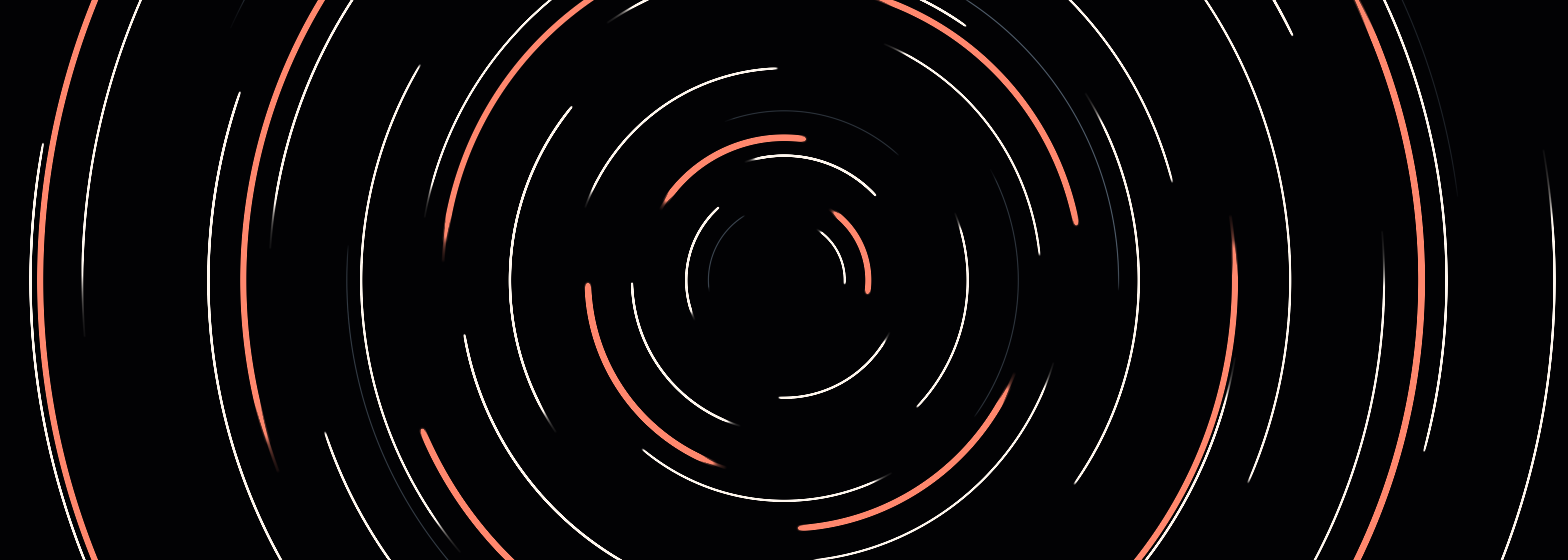
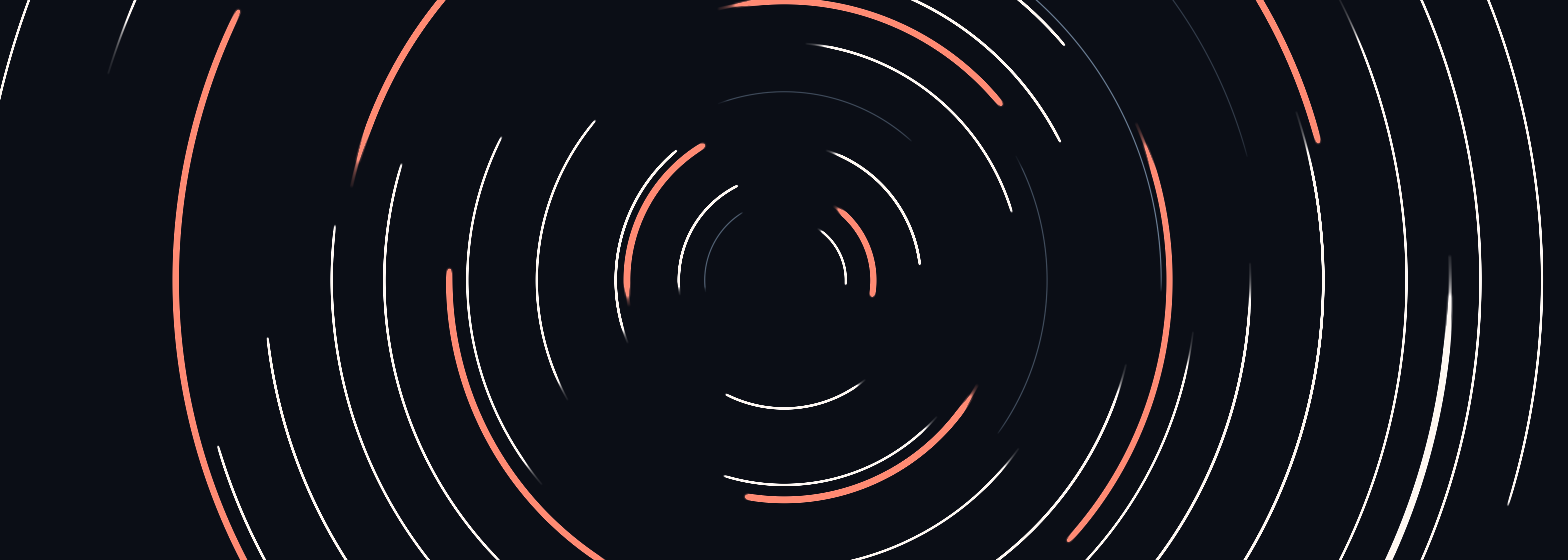
tune(sky): thin the star ring and lift the three near-black layers
Density: N_BIG/N_SMALL 96/50 -> 76/40, N_DEEP_K 0.65 -> 0.7 (76 light / 53 dark, 40/28 narrow). Darkness was three stacked layers, each measured before moving: page colour #020204 -> #0b0e16 (with ink-1/2, theme-color and the bake's new \ veil constant), dark hero grading 0.32 -> 0.5 (meanL 37.3 -> 59.5, near-black 58.2% -> 25.5%), deep drawer veil 0.62 -> 0.42 (near-black 96.8% -> 39.6%). Developing gains move in opposite directions because the causes differ: DEV_DEEP 1.0 -> 1.6 (not enough light), DEV_PAPER 0.42 -> 0.18 (too much ink); DEP untouched. The bake script now also emits the four phone -sm resamples, which were hand-baked before and silently left behind on every re-bake. Contrast still passes every rule. Art recomputed from the same constants; docs, README pair and the dark figures' grounds synced.

diff --git a/src/styles/site.css b/src/styles/site.css
@@ -254,9 +254,15 @@ html:root {
 /* 选择器写成 :not([data-theme='out']) 而不是 [data-theme='well']，所以属性没写上时
    这里就是渲染结果。首开默认浅色由 index.html 决定，与此无关。 */
 html:root:not([data-theme='out']) {
-  --ink-0: #020204;
-  --ink-1: #0a0a10;
-  --ink-2: #15151d;
+  /* 2026-11-15（作者「整体比较偏黑」）：#020204 / #0a0a10 / #15151d → 下面三档。
+     旧值近纯黑（亮度 2.2 级），叠上压暗照片后整页 94% 的像素低于 40 级，读作一块黑板。
+     现在抬到深蓝夜色：页底 ~13 级、面板 ~22 级、抬升面 ~33 级，仍是明确的夜，
+     但天空与山体有了层次。色相留在冷蓝一侧（B > G > R），与 --cold 同族。
+     烘图脚本的天空纱必须跟着落到同一个 --ink-0，否则首屏横带顶边会出现一道横杠
+     （build_plate_bg.ps1 的 veilTopColor，两处一起改）。 */
+  --ink-0: #0b0e16;
+  --ink-1: #141821;
+  --ink-2: #202634;
 
   --text-0: #f4f1ea;
   --text-1: #8f8c96;
@@ -282,13 +288,13 @@ html:root:not([data-theme='out']) {
      否则直接拿 --ink-2 当阴影会在浅底上晕出一圈浅淡的光斑 */
   --shadow: rgba(0, 0, 0, 0.62);
   --plate-img: url('/plates/plate-bg-deep.jpg'); /* 抽屉底：plate1 烘出的压暗底，单张常驻（2026-11-07 起不再三档指向同一张装轮播） */
-  --plate-img-sm: url('/plates/plate-bg-deep-sm.jpg'); /* 手机档：同图 1280px 重采样（运行时还有 12px 模糊），0.10MB → 0.03MB */
+  --plate-img-sm: url('/plates/plate-bg-deep-sm.jpg'); /* 手机档：同图 1280px 重采样（运行时还有 12px 模糊），0.12MB → 0.04MB */
   /* 次级页未吸顶顶栏的字色（压在底片上）：deep 顶带近黑，字取 --text-0、
      hover / 选中 / 下划线保留 --cold 那枚亮蓝（压得住）。消费方在 SiteHeader 的 .plate 规则。 */
   --plate-hdr: var(--text-0);
   --plate-fg: var(--cold);
   --hero-img: url('/plates/plate-hero-deep.jpg'); /* 首屏的地景底：与亮色同一座山（同一取景的压暗版），星轨以 lighter 叠在它上面 */
-  --hero-img-sm: url('/plates/plate-hero-deep-sm.jpg'); /* 手机档：同取景 1800px 重采样，0.62MB → 0.05MB */
+  --hero-img-sm: url('/plates/plate-hero-deep-sm.jpg'); /* 手机档：同取景 1800px 重采样，0.90MB → 0.06MB */
   /* 首屏第一帧的替身：36px 宽的模糊底（0.46KB data URI）随样式表一起到，真图不透明、load 完自然盖住 */
[1 lines of base64/hex data omitted]
 
@@ -364,8 +370,10 @@ html:root[data-theme='out'] {
 }
 
 /* ---------- 3a. 手机档地景 ----------
-   窄屏把首屏照片换成同取景的 1800px 重采样版（亮 1.45MB → 0.09MB，深 0.62MB → 0.05MB），
-   抽屉底片换 1280px 版（两张 1.5MB → 0.49MB；运行时还糊 12px，看不出来）。
+   窄屏把首屏照片换成同取景的 1800px 重采样版（亮 1.45MB → 0.09MB，深 0.90MB → 0.06MB），
+   抽屉底片换 1280px 版（浅 0.63MB → 0.21MB、深 0.12MB → 0.04MB；运行时还糊 12px，看不出来）。
+   四张手机档由 npm run bg:build 末尾的 Resample 从桌面成品降采样生成（2026-11-15 起；
+   此前是手工烘的，重烘桌面时会静默漏掉它们，窄屏于是一直用着旧调色）。
    断点必须与 index.html 首帧 preload 里那条 matchMedia 是同一个数：预加载错版本等于白下
    一张，首屏反而更慢；tests/hero-preload.test.mjs 从两边解析出来对拍。
    主题块的选择器是 (0,2,1)，所以这里也写成主题选择器、放在两套主题块之后，靠层叠扳 --hero-img。

diff --git a/src/components/StarTrails.vue b/src/components/StarTrails.vue
@@ -70,13 +70,19 @@ const LENS_R = 180 // 指针时间膨胀半径 px
 // 五次：176/90 → 124/64。配额已把根数让给中亮两档，总数再收一档，
 // 于是"能看清的弧"数量基本不变，而背景灰丝少了六成。
 // 七次：110/58 → 96/50。中+亮 = 84 根（与上一版逐根相等），暗档 26 → 12 根。
-const N_BIG = 96
-const N_SMALL = 50
+// 2026-11-15 十次（作者「星环密度还是有点高」）：96/50 → 76/40，再收两成。
+// 这一轮不再靠砍暗档去减密度（暗档只剩 16%，再砍就没有气氛层了），而是整组等比收：
+// 浅色 76 根（亮 18 / 中 46 / 暗 12）、深色 53 根（亮 13 / 中 32 / 暗 8）。
+// 环与环之间的天空随之变宽，配合下面几档提亮，画面读作"疏朗的几笔"而不是密纹。
+const N_BIG = 76
+const N_SMALL = 40
 // 星数必须**分主题**：同一套 α 在两个主题上的可见面积差着一个数量级。浅色是墨压浅底
 // （底亮度 245），α<0.05 的抗锯齿羽化按 Weber 律根本看不见；深色是冷白加在近黑底上
 // （实测底亮度 2.2 级），一条 α=0.037 的羽化边就是 7 级 = 320% 对比 → 220 根的羽化叠起来
 // 读成"一片脏灰的轨迹"。量法见 docs/design.md §9 第 8 条。
-const N_DEEP_K = 0.65 // 深色主题的星数倍率（浅色=1）
+// 2026-11-15：0.65 → 0.7。深色底同时提亮（见 DEV_DEEP 与烘图的 DEEP_HERO_K），
+// 近黑底变亮之后羽化边的对比不再那么刺眼，可以比原先多留一点星，减星才不至于读成空天。
+const N_DEEP_K = 0.7 // 深色主题的星数倍率（浅色=1）
 // 线宽。旧值 `0.6 + z·1.2` 的中位数只有 0.94 CSS px，而他那块屏是 1× 缩放——**上屏的采样网格
 // 就是 1 CSS px = 1 设备像素**，一根不到一格的线必然沿程明暗跳：按面积积分量过，脊的谷/峰只有
 // 0.33（同一条线自己亮 30 级、暗 10 级交替）。底片内部超采样治不了它（p=1.645 时 0.34、p=2 时
@@ -172,8 +178,12 @@ const CORE_HALO = 5.2 // 深色辉光半径 = 核半径 × 此值
 // 2026-11-14 三次：1.9/0.85 → 0.55/0.22。上一轮补的这道提亮把"不明显"治过头了，
 // 现在只留一点点，让底片本来的浓淡说话。配图脚本读同一对常数，两边不再各调一套。
 // 四次：0.55/0.22 → 1.0/0.42，中档（二次 1.9/0.85，三次 0.55/0.22）。
-const DEV_DEEP = 1.0 // 深色：额外叠绘次数（≈ ×2.0）
-const DEV_PAPER = 0.42 // 浅色：额外压墨的 alpha（≈ ×1.42）
+// 2026-11-15 五次（作者「整体比较偏黑」）：深色 1.0 → 1.6（≈ ×2.6），浅色 0.42 → 0.18（≈ ×1.18）。
+// 两套主题往相反方向走，因为"偏黑"在两边的成因不同：深色是光不够（加色叠绘再补一档），
+// 浅色是墨太重（压墨的零头收掉大半，让干版本来的纸色透出来）。减星之后单笔更清楚，
+// 深色多叠一遍不会糊成密纹；浅色减墨也不会淡到读不出——底片浓度 DEP 未动。
+const DEV_DEEP = 1.6 // 深色：额外叠绘次数（≈ ×2.6）
+const DEV_PAPER = 0.18 // 浅色：额外压墨的 alpha（≈ ×1.18）
 /* 换主题的交叉显影：旧底片先拍一张快照，在新底片重新长出来的这几百毫秒里淡出。
  * 原先 resetPlate() 一清，整夜的曝光当场归零、要盯着空天好几秒才重新长出弧来。 */
 const GHOST_FADE = 620 // ms

diff --git a/src/components/HorizonHero.vue b/src/components/HorizonHero.vue
@@ -145,7 +145,9 @@ onUnmounted(() => {
    同一段色差，"两端不等"这件事不变；现在两端实测差 1/765 通道和，边界那一档降到 0.021。
    横带高度在这里，画面取哪一段是 bake 里的 700/1120/2560。
    暗色是同一取景的压暗版（plate-hero-deep.jpg，build_plate_bg.ps1 用同一个 $full 烘出），
-   同一条天空纱改成压向 #020204，所以顶端也是 #020204、同样没有缝；两套共用一条山脊折线。 */
+   同一条天空纱改成压向 #0b0e16（2026-11-15 随深色页底一起提亮，原 #020204），所以顶端也是
+   #0b0e16、同样没有缝；两套共用一条山脊折线。纱色在 build_plate_bg.ps1 的 $INK_DEEP，
+   与 site.css 深色块的 --ink-0 必须同值，改一处就要改两处并重烘。 */
 .hero-lqip {
   position: absolute;
   bottom: 0;

diff --git a/index.html b/index.html
@@ -5,7 +5,7 @@
     <link rel="icon" type="image/svg+xml" href="/favicon.svg?v=2" />
     <meta name="viewport" content="width=device-width, initial-scale=1.0" />
     <meta name="description" content="Escap1ng 的个人博客：技术、设计、生活，想到哪写到哪。首页是一段随滚动加速的星轨长曝光，文章按时间排在这里。" />
-    <meta name="theme-color" content="#020204" media="(prefers-color-scheme: dark)" />
+    <meta name="theme-color" content="#0b0e16" media="(prefers-color-scheme: dark)" />
     <meta name="theme-color" content="#f2f5f9" media="(prefers-color-scheme: light)" />
 
     <!-- 域名写死在这里，且与 src/data/site.js 的 url 必须是同一个源头（tests/content-rolls.test.mjs

diff --git a/docs/design.md b/docs/design.md
@@ -120,10 +120,19 @@
 
 **四至九轮：密度与配色的来回校准（2026-11-14，作者逐轮目评）。** 三次减淡后作者评「过于稀疏」，四次取中档（N 176/90、DEP 0.104、曝光 64°、增益 1.0/0.42）；随后「细密的淡线太多」与「颜色优化」连评三轮，最终落在：
 
-- **淡线的根治靠结构不靠数量**：`LW_MIN=1.25` 给所有笔画兜最小线宽——亚像素笔画在 1× 屏上被采样成断续灰点，才是"细密淡线"的物理来源；暗档不再压细（×0.9），退让改由**颜色**承担。配额暗档一路 67% → 38% → 24% → **16%**，中档接管主体密度；总星数 **96/50**（深色 62），可见中亮弧数量保持不变，少的全是灰丝。
+- **淡线的根治靠结构不靠数量**：`LW_MIN=1.25` 给所有笔画兜最小线宽——亚像素笔画在 1× 屏上被采样成断续灰点，才是"细密淡线"的物理来源；暗档不再压细（×0.9），退让改由**颜色**承担。配额暗档一路 67% → 38% → 24% → **16%**，中档接管主体密度；总星数当时 **96/50**（深色 62，2026-11-15 十轮再收到 76/40，见下），可见中亮弧数量保持不变，少的全是灰丝。
 - **配色三档在色相上分开**：浅色 = 石板灰蓝（暗，ink 兑 34% cold）/ 石墨蓝（中，兑 50%）/ 朱砂（亮）；深色 = 冷蓝微光 / 暖白 / 琥珀。不再靠"同一种蓝的浓淡"。
 - **红蓝平衡（九次，「蓝色太多红色太少」）**：亮档配额 16% → **24%**、中档 72% → **60%**；亮星抽暖概率 `WARM_P` 0.3 → **0.65**（命名常数，复算脚本读它），红弧从点睛升为第二主角。
 - 复算脚本同步读取 `WARM_P` / `LW_MIN`，色板与线宽倍率逐行同款；配图与页面仍是单一来源。
+
+**十轮：减星 + 分层提亮（2026-11-15，作者「星环密度还是有点高，而且整体比较偏黑」）。** 两件事分开治，因为成因不同：密度是根数，偏黑是**三层底色叠出来的**，不是星轨本身。
+
+- **密度**：`N_BIG`/`N_SMALL` 96/50 → **76/40**（整组等比收两成，不再砍暗档——它只剩 16%，再砍就没有气氛层）。`N_DEEP_K` 0.65 → **0.7**：深色底提亮后羽化边的对比不再刺眼，可以比原先多留一点星。现值浅色 **76**（亮 18 / 中 46 / 暗 12）、深色 **53**（亮 13 / 中 32 / 暗 8），窄屏 40 / 28。
+- **偏黑的三层，逐层量过再动**（改前 → 改后，逐像素采样）：页底 `--ink-0` `#020204`（亮度 2.2 级）→ **`#0b0e16`**（~13 级），`--ink-1` `#0a0a10` → `#141821`、`--ink-2` `#15151d` → `#202634`，色相留在冷蓝一侧；深色首屏照片 `DEEP_HERO_K` 0.32 → **0.5**，meanL **37.3 → 59.5**、近黑像素 **58.2% → 25.5%**；深色抽屉底片压暗纱 0.62 → **0.42**，meanL **23.5 → 40.2**、近黑 **96.8% → 39.6%**。那道 0.62 的纱是"可读性靠底片"时代的遗留，如今正文一律坐在卡面与 `.en-head` 上（实测 ≥5.98:1），底片可以还它自己的调子。
+- **显示增益往相反方向走**：`DEV_DEEP` 1.0 → **1.6**（≈×2.6，深色是光不够）、`DEV_PAPER` 0.42 → **0.18**（≈×1.18，浅色是墨太重）。`DEP` 未动——底片浓度不变，只改显示端与底色。
+- **天空纱必须跟着页底走**：`build_plate_bg.ps1` 新增 `$INK_DEEP` 常量（11,14,22），深色首屏的 `veilTopColor` 与抽屉纱色都取它。此前两处各写一份字面量，改 `--ink-0` 而忘了重烘就会在横带顶边留一道横杠（§8「首页」那条明账）。`index.html` 的 `theme-color` 同步。
+- **手机档不再手工烘**：脚本末尾新增 `Resample`，从**桌面成品**降采样出四张 `-sm`（首屏 1800px / 抽屉 1280px）。此前它们是手工产物，`npm run bg:build` 会静默漏掉——本轮实测深色手机首屏仍是旧的 meanL 37.2 而桌面已 59.5，窄屏一直用着旧调色。现在同一次重烘必然覆盖两档。
+- **对比度仍全部达标**：提亮页底后深色正文 17.10:1、次文字 5.84:1、`--cold` 10.98:1、`--hot` 6.28:1，代码块两档 10.11 / 5.38；浅色一字未动。
 
 **弧长与闪烁（历史口径，已被上条取代）。** 旧式 `shear = 0.09+r^1.9·0.85` × 星等倍率（亮 1.5 / 中 1.15 / 暗 1）：中位 ≈18.7°、最长 ≈54°、亮星到 81°——长短差 8 倍以上，随机感靠"每根都不一样长"承载（2026-10-30 压长尾：旧 `0.07+r^1.55·1.0` 的中位 23.6°、最长 61°、亮星 92°，长弧在整屏上读成"拖出来的细丝"）。闪烁幅度随星等放大，`ta = 0.04+0.08·min(1,z)`（同日减半：整屏眨眼读成噪点）；另叠云幕慢包络（周期 40–126s、幅度 5–12% 缓变暗化，原 10–22%），与快闪烁、独立尾部渐隐（`FEAT`，每次 1–2 根、间隔 8–14s、4.2s 内暗到 0.45 再回来）构成三个时间尺度。
 
@@ -209,9 +218,9 @@
 
 | 令牌 | 语义 | 深色 | 浅色（`theme=out`，首开默认） |
 | --- | --- | --- | --- |
-| `--ink-0` | 页面底色 | `#020204` | `#f2f5f9` |
-| `--ink-1` | 卡片/代码/表头底 | `#0a0a10` | `#e7ecf3` |
-| `--ink-2` | 再亮一层内嵌底 | `#15151d` | `#d9e1eb` |
+| `--ink-0` | 页面底色 | `#0b0e16` | `#f2f5f9` |
+| `--ink-1` | 卡片/代码/表头底 | `#141821` | `#e7ecf3` |
+| `--ink-2` | 再亮一层内嵌底 | `#202634` | `#d9e1eb` |
 | `--text-0` | 主文字 | `#f4f1ea` | `#0e141d` |
 | `--text-1` | 次文字/眉标/读数 | `#8f8c96` | `#55606f` |
 | `--line` | 发丝线/边框 | `rgba(244,241,234,.13)` | `rgba(14,20,29,.15)` |
@@ -454,7 +463,7 @@ p.sr-only[aria-live] → 路由播报，内容取 route.meta.t
   顶部另有一条**最低让位**：`--hero-top-free = (--svh − 垫 − --lockup-h) / 2` 是居中模型算出的块顶；它小于 `--hero-header-clear: 96px` 时，把 `padding-top` 设为 `2 × (96 − 块顶)`，用居中模型的"顶部垫量只让块顶下移 T/2"关系把块顶精确压到 96px。96 = 未吸顶的顶栏 65px + 滚动 40px 时刊头因视差相对上移的 30px（`.hero-text` 的 `translateY(y·0.25)`），再往上 `.stuck` 的实底就接上了。视口够高时这项算出来是 0，版式与本条上面那组读数一字不动。
   视口 ≤430px 高时，块底会碰到右下角那枚下滑提示，提示直接隐藏——它只是"下面还有"的暗示，没地方时不硬挤。
   首屏右下角是那枚**下滑提示**（`.scroll-cue`，首屏组件内）：2026-10-30 由正中的 52px 圆钮改成右侧的 38×58 细描边胶囊，同日又改回**圆形**——46px 圆钮、1.5px 冷色描边、半透底托（山脊照片明暗不定，裸描边会被吃掉），里面一枚 22px 描边下箭头（`fill:none` + 圆头圆角，与顶栏那组 `.en-svg` 同一套画法）在圆内 3px 起伏、透明度 0.55↔1（2.2s），按钮本身不 bob——动的只是箭头，点击位置不晃。46 靠 `::after` 补到 58 的触控热区，≤720px 贴 16px 页边（`--space-2` / `--space-3`）。挪到右侧的原因是折线声波的峰就在正中，圆钮压在波峰上像一颗樱桃；减弱动效下箭头停成正中一道静态一撇。
-  **淡出不在 CSS 里，烘在素材里**：`build_plate_bg.ps1` 取原图 700~2560 行，在山脊（峰顶实测 1120 行，读自 25px 网格渲染）以上盖一层竖向天空纱，顶端正好落在 `--ink-0`、到峰顶收敛为 0，所以山一寸没被遮。实测边界差 1/765 通道和，淡出跨 220px，进入段每 20px 降 0.021 亮度。暗色 `--hero-img` 是**同一取景的压暗版**（`plate-hero-deep.jpg`）：同一个 `$full`、同一裁剪、同一条天空纱，只把纱色换成压向 `#020204`（调色为 `$HERO_DEEP = $HERO × K`，`K=0.32`，3×3 与 RGB 偏移**一起**缩，纯黑才落回 `#020204` 而不是偏移留下的 `#030810`；`DEEP_HERO_K` 可覆盖），保留 `$HERO` 的色相让山脊可读，实测素材第 0 行就是 `#020204`、边界台阶降到 ≈0.3 ΔL\*；两套主题因此共用 `ridge.js` 那一条折线。首屏视差随滚动以 0.25 倍速下沉并淡出。
+  **淡出不在 CSS 里，烘在素材里**：`build_plate_bg.ps1` 取原图 700~2560 行，在山脊（峰顶实测 1120 行，读自 25px 网格渲染）以上盖一层竖向天空纱，顶端正好落在 `--ink-0`、到峰顶收敛为 0，所以山一寸没被遮。实测边界差 1/765 通道和，淡出跨 220px，进入段每 20px 降 0.021 亮度。暗色 `--hero-img` 是**同一取景的压暗版**（`plate-hero-deep.jpg`）：同一个 `$full`、同一裁剪、同一条天空纱，只把纱色换成压向 `--ink-0`（脚本里的 `$INK_DEEP`，现 `#0b0e16`；调色为 `$HERO_DEEP = $HERO × K`，`K=0.5`，3×3 与 RGB 偏移**一起**缩，纯黑才落回页底而不是偏移留下的杂色；`DEEP_HERO_K` 可覆盖），保留 `$HERO` 的色相让山脊可读，实测素材第 0 行就是页底色、边界台阶 ≈0.3 ΔL\*；两套主题因此共用 `ridge.js` 那一条折线。**2026-11-15**：`K` 0.32 → 0.5、纱色 `#020204` → `#0b0e16`（作者「整体比较偏黑」，见 §3.1 十轮）——改前 meanL 37.3 / 近黑 58.2%，改后 59.5 / 25.5%。纱色与 `--ink-0` 必须同值，改一处就要改两处并重烘，否则横带顶边出现一道横杠。首屏视差随滚动以 0.25 倍速下沉并淡出。
 - **首页折线以下**：风景底片是挂在 `App.vue` 上的 `.sub-plate`（`position: fixed` 铺满视口）。素材由 `npm run bg:build` 从 `plates-src/` 的原图烘出来，原图不进仓库。**底片是清晰的**：糊不糊是运行时参数 `--plate-blur`（0–12px 滑杆，**初值 12 = 拉满**，见「设置卡」条），素材一律出清晰版，所以滑杆两端都有实义，0 那一档是真清晰。**2026-11-07 起收敛成单张常驻**：作者定「浅色底片 · 其三」为默认，原先三张轮各占 10s / 一圈 30s 的那套机制（`--plate-cycle`、`plate-slot` 关键帧、`animation-delay` 9/19s）整体退役。压暗渐变仍跟着图层走、只此一份（`transparent 52% → var(--ink-0) 100%`），图层向四周多撑 3 倍模糊半径免得 blur 把边缘淡出一圈白边——这两条账不变。三张的历史收档：paper1 / paper3 撤出轮播，paper3 源图挪 `photos-src/` 待用，paper1 源图留在 `plates-src/`（深色压暗底 plate-bg-deep 由它烘；当年三张顶带 p50 实测 0.231 / 0.032 / 0.014，单色必有其中一张不达标，是逐张采样的依据）。**2026-10-29 作者嫌上下两片白太大**：底部起点 18% → 52%、到 100% 才铺满——下半屏不再是一块死白，页脚那一条仍在 80% 以上的 `--ink-0` 上；当时顶端羽化一并收到 110px，代价是未吸顶的透明顶栏直接压在照片上：旧羽化下「02 合集」实测 1.99:1、当前页 2.57:1，收小后同一张亮底片上是 2.07 / 1.91，浅色轮到较暗的 paper3 上时是 1.44 / 1.34。**2026-10-30：白带最后还是没留住，改成字色跟随底片。** 先按四条出路选了「短白带」——视口顶部 72px 遮罩完全不透（纯 `--ink-0`），72 → 182px 再渐入底片；页顶导航（浅色 /blog，文字行 y≈24–40 的背景采样）从 2.4:1 抬到 5.84:1、当前项从 1.3:1 抬到 6.13:1。同日作者判「顶部白条实在太丑」，白带与整条遮罩一起撤掉（`--plate-pad` 那套坐标补边也随之作废），底片自 y=0 起原样露出。顶栏字色改由原采样器 plateTone（模块已删）采样底片顶带（76px，按 CSS 的 cover / 50% 34% 映射折算到图像行）的亮度，逐张选最坏样本也过线的墨字 / 纸字写进 `--hdr-fg`——当年三张顶带亮度差一个数量级（paper1 p50 **0.231** / paper3 **0.032** / paper4 **0.014**），单色必有一张不达标。**2026-11-07 动态采样退役**：抽屉收敛成单张 paper4 后按秒换色的依据没了，整个采样器（plateSlot 档位 / phase / 定时器对表、`visibilitychange` 对表与其钉子测试）撤除，次级页未吸顶的顶栏改为**静态**换色——浅色整条落纸色（paper4 顶带 p50 0.014，墨字有余量而亮蓝 `--cold` 只有 1.8:1），深色字取 `--text-0`、亮蓝压得住保留；两枚静态令牌 `--plate-hdr` / `--plate-fg` 各在两套主题块定义，规则在 `SiteHeader.vue` 的 `.plate` 块，首页顶栏维持主题默认（压的是 `.hero-plate` 自带的天空纱）。原先仍开着的一处（列表页页头 H1「文章」与「按时间倒序…」那行副标题落在 y≈130–220 的底片上、副标题只有 2.4:1）同日还清——页头整体搬上一张底卡，见下一段与 `src/styles/site.css` §5 的 `.en-head`。
   **次级页页头一张底卡（`.en-head`，2026-10-30）**：白带已撤（见上段），页头两行裸字当初压底片实测全站最差 1.0~2.4:1。修法没有再动底片——明账早写过「裸字压风景照到不了 AA，形状无关」，所以字干脆换地方坐：列表/首页态的页头（含 404、lost 态、合集页的面包屑与统计行）包进一条通栏卡面，配方与首页章节底卡同一档——底 `--card-bg`（不透底默认档 = 浅色纯白 / 深色 `--ink-1`）、边 `--card-brd`、圆角 `--r-md`；**2026-11-08 起标题在左、副题在右**：两列栅格（左列按标题收宽、右列 `minmax(0,1fr)`），副题贴右沿右对齐、与标题基线相齐，≤720px 叠回标题在上副题在下；合集详情的面包屑与篇数行跨满两列，仍与标题同住一张卡。「卡片颜色」两档一翻，页头卡与全站卡面一起翻。底卡上的实测比值（同一把 `check_contrast` 的尺子）：浅色 text-0 18.48 / text-1 6.39 / cold 6.70，深色 17.50 / 5.98 / 11.23——原债 1.0~2.4:1 抬到最差 5.98:1。卡面不建 backdrop-filter（常驻面禁令，§6d 同款理由）。受影响面：八处——`/blog`、`/collections` 总览、合集详情、`/projects`、`/updates`、`/about` 六处页头卡，加 `/blog/:slug` 与 `/projects/:slug` 的两处 lost 态（lost 态的卡在按内容收宽的 `.lost` 里 `align-self: stretch` 占满一行，宽度与列表页头相等；合集详情的面包屑、标题、篇数行同住一张卡，别拆成两张）。404 例外：作者 2026-10-30 定「这页不要底卡」，维持裸字居中。卡的上边距是一档 `--space-3`：卡顶落在视口 ~152px，顶栏与卡之间隔出一条底片——白带撤掉后页顶自 y=0 起就是照片，这一档留白是让卡「浮」在图上，而不是又贴成一堵色墙。
   **可读性要连代价一起说**：底片上只有那一条竖向渐变，它管页尾与折线附近，不再管整幅。2560×1392 下沿内容列（x 720–1840、y 120–1086）逐点合成的最坏值——落在卡面上的 `--text-0` 是 **5.5:1**（`--card-bg` 从 52% 抬到 72% 则 9.65:1），而**直接压在底片上的裸字只有 1.0–1.2:1**（§9 第 2 条）。所以次级页顶部那两行裸字（`.en-h2` / `.en-lede`）是一笔明账的债。三张素材烘完后的整体亮度（48×32 网格采样、`meanL` 归一到 0–1）：`paper1 0.472 / paper3 0.346 / paper4 0.301`——那枚 5.5:1 正是按这三张量的，而且它量的是「半透明」那一档（52% 底、底下就是这张照片，所以会随底片变暗往下走一点，幅度未测）；卡面的 resting 档如今是不透底，底被卡面挡死，这两个数不再随底片漂。

diff --git a/README.en.md b/README.en.md
@@ -20,7 +20,7 @@ The home screen is a camera left open: scroll down and the exposure deepens and 
 <img src="docs/assets/readme/hero-deep-space.png#gh-dark-mode-only" alt="Dark hero: concentric star-trail arcs accumulating around a centred pole, cold blue and warm white with a few amber cores, outer rings running out of frame" width="100%">
 <img src="docs/assets/readme/hero-paper.png#gh-light-mode-only" alt="Light hero: slate and graphite-blue trails laid over a dry plate, vermilion on the brightest few, outer rings running out of frame" width="100%">
 
-<sub>Not a screenshot: the steady-state plate recomputed offline from the site's own constants (`npm run art:build`, add `ART_HERO=1` for the banner crop) — the very plate a `prefers-reduced-motion` visitor sees. Art and page share one pair of developing gains (×2.0 / ×1.42), so the thumbnail density matches the page.</sub>
+<sub>Not a screenshot: the steady-state plate recomputed offline from the site's own constants (`npm run art:build`, add `ART_HERO=1` for the banner crop) — the very plate a `prefers-reduced-motion` visitor sees. Art and page share one pair of developing gains (×2.6 dark / ×1.18 light), so the thumbnail density matches the page.</sub>
 
 ---
 
@@ -49,7 +49,9 @@ This section records the rework behind several rounds of "that looks wrong", bac
 
 Two more structural floors: no stroke thinner than `LW_MIN = 1.25` CSS px — sub-pixel strokes sample into broken grey dots on a 1× screen, the source of the faint clutter, so the dim tier recedes by colour instead; and star cores are painted on the current-frame layer, never accumulated (accumulating turns them back into arcs), so each trail carries a point-like star at its head.
 
-Current counts: 96 light / 62 dark (50 / 33 on narrow screens). The plate is allocated per viewport, capped at `MAXPX = 6e6` with a `MIN_DPR = 1.25` floor — every frame costs one full-screen `destination-out` plus one `drawImage`, so pixel count is the fixed overhead.
+Current counts: 76 light / 53 dark (40 / 28 on narrow screens). The plate is allocated per viewport, capped at `MAXPX = 6e6` with a `MIN_DPR = 1.25` floor — every frame costs one full-screen `destination-out` plus one `drawImage`, so pixel count is the fixed overhead.
+
+Density and darkness were tuned separately, because they had different causes. The dark theme used to stack three near-black layers — page colour, a graded-down hero photo and a veiled drawer plate — leaving 94% of pixels below level 40. The page colour is now a deep blue night (`#0b0e16`), the dark hero's grading factor went 0.32 → 0.5 (mean luminance 37 → 60, near-black pixels 58% → 26%) and the drawer's veil 0.62 → 0.42 (near-black 97% → 40%). The developing gain went up for dark (×2.6, not enough light) and down for light (×1.18, too much ink). The plate's own density is unchanged; what moved is the display stage and the ground colours.
 
 ## Interface
 

diff --git a/README.md b/README.md
@@ -20,7 +20,7 @@
 <img src="docs/assets/readme/hero-deep-space.png#gh-dark-mode-only" alt="深色首图：同心星轨弧绕居中的天极累积，冷蓝与暖白之间点着几枚琥珀，外环出框" width="100%">
 <img src="docs/assets/readme/hero-paper.png#gh-light-mode-only" alt="浅色首图：石板与石墨蓝的轨迹压在干版上，朱砂点在最亮的那几根，外环出框" width="100%">
 
-<sub>首图不是截图：按站点同一套常数离线复算（`npm run art:build`，首图加 `ART_HERO=1` 取横幅景），复算的正是 `prefers-reduced-motion` 访客看到的稳态底片。出图与页面共用同一对显示增益（×2.0 / ×1.42），缩略图上的浓度与页面一致。</sub>
+<sub>首图不是截图：按站点同一套常数离线复算（`npm run art:build`，首图加 `ART_HERO=1` 取横幅景），复算的正是 `prefers-reduced-motion` 访客看到的稳态底片。出图与页面共用同一对显示增益（深色 ×2.6 / 浅色 ×1.18），缩略图上的浓度与页面一致。</sub>
 
 ---
 
@@ -49,7 +49,9 @@
 
 还有两条结构性的兜底：任何笔画不细于 `LW_MIN = 1.25` CSS px——亚像素笔画在 1× 屏上被采样成断续灰点，是「细密淡线」的来源，暗档改靠颜色退成背景；星核画在当帧层、不累积（累积了就又变成一道弧），每道弧前沿因此有一颗点状的星。
 
-当前星数：浅色 96 / 深色 62（窄屏 50 / 33）。底片按视口分配，`MAXPX = 6e6` 封顶、`MIN_DPR = 1.25` 兜底——每帧一次全屏 `destination-out` 加一次 `drawImage`，像素数就是固定开销。
+当前星数：浅色 76 / 深色 53（窄屏 40 / 28）。底片按视口分配，`MAXPX = 6e6` 封顶、`MIN_DPR = 1.25` 兜底——每帧一次全屏 `destination-out` 加一次 `drawImage`，像素数就是固定开销。
+
+浓淡与底色也分开调过一轮：深色此前页底近纯黑、照片与折线以下底片各自压暗，三层叠起来整页 94% 的像素低于 40 级。现在页底抬到深蓝夜色（`#0b0e16`），深色首屏照片的压暗系数 0.32 → 0.5（平均亮度 37 → 60、近黑像素 58% → 26%），折线以下底片的压暗纱 0.62 → 0.42（近黑 97% → 40%）；显示增益深色补到 ×2.6、浅色收到 ×1.18（浅色是墨太重，不是光不够）。底片浓度本身没动，改的是显示端与底色。
 
 ## 界面
 
